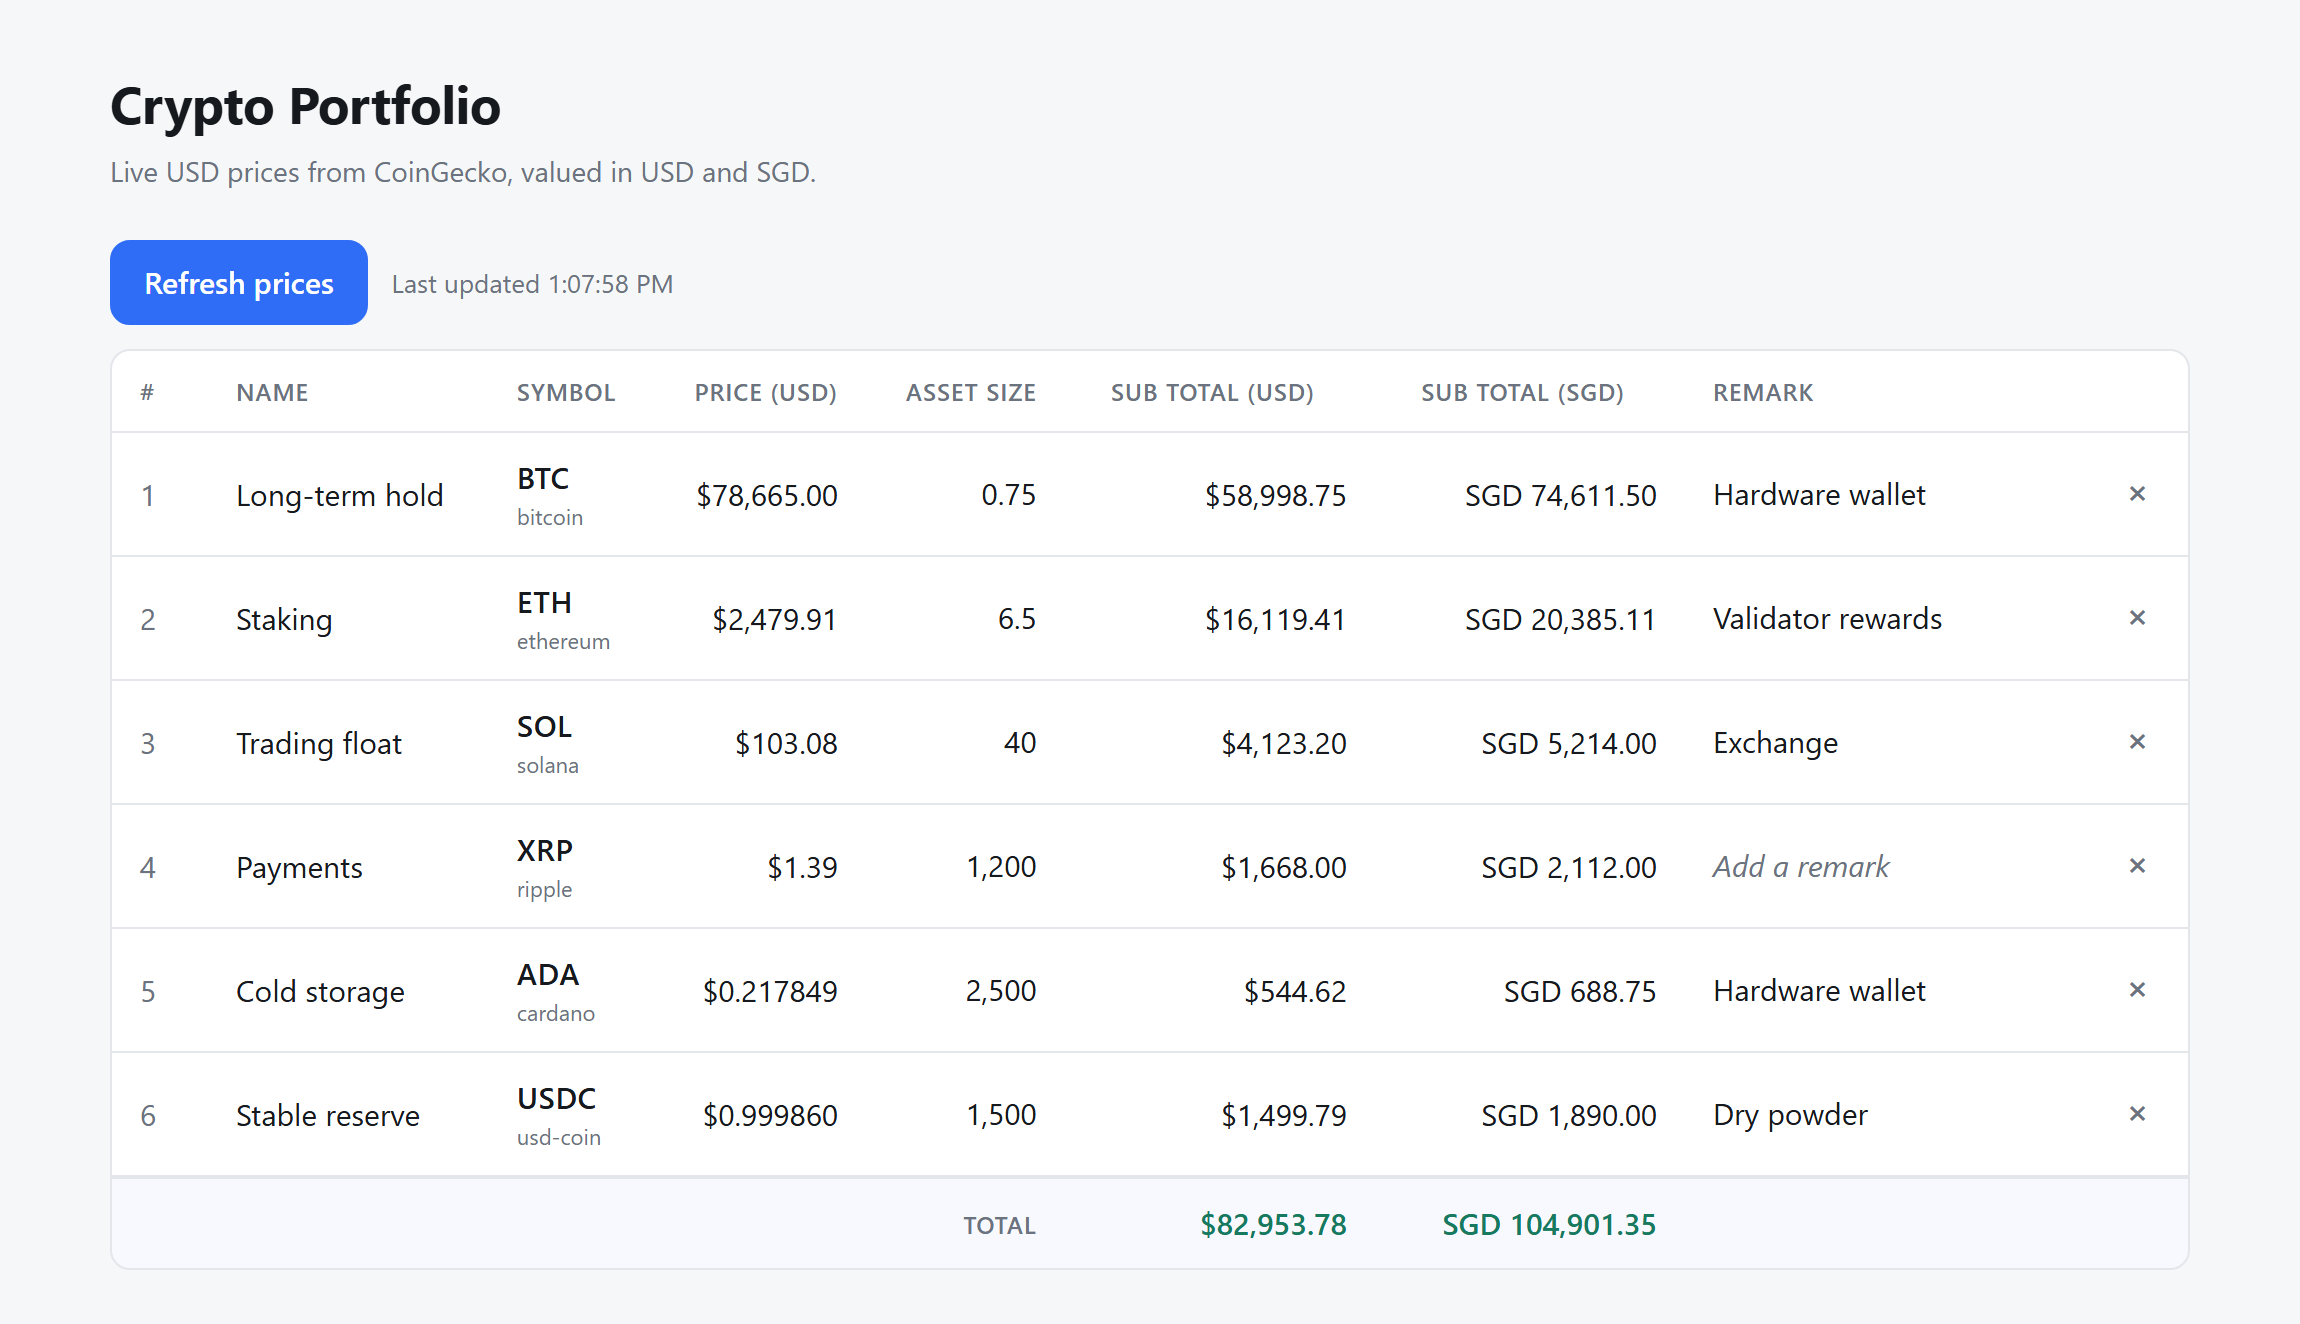
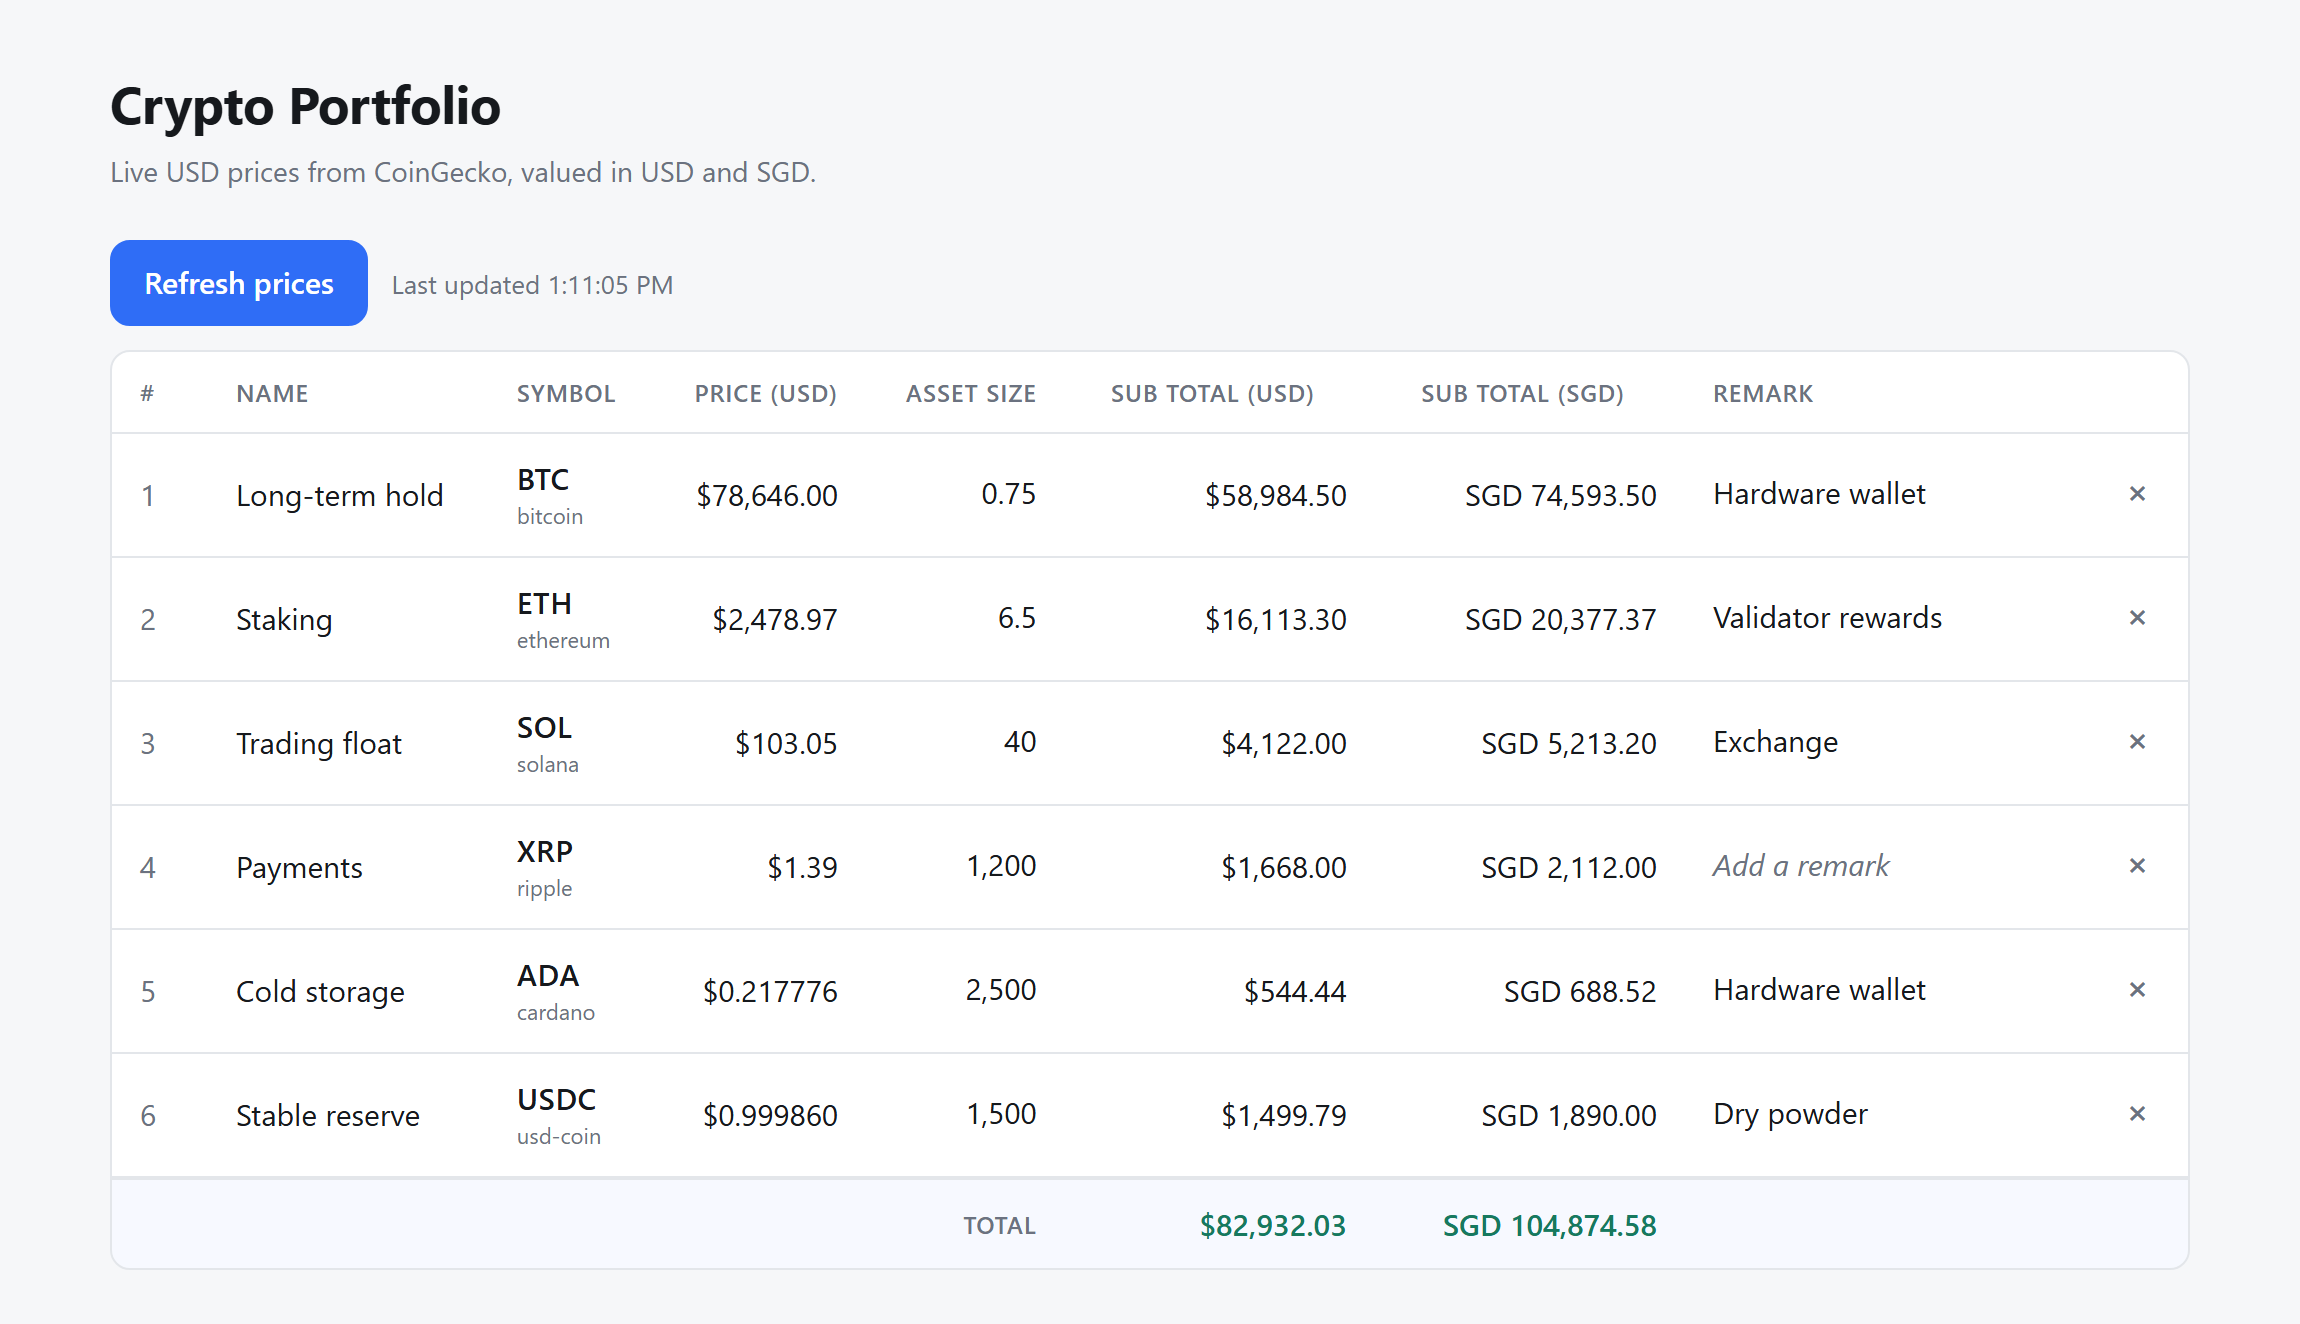
Add a dark-mode screenshot, recapture light to match
Both captured over the DevTools Protocol with prefers-color-scheme
emulated, so the framing and price snapshot are identical between them.
Demo data, not real holdings.

diff --git a/README.md b/README.md
@@ -3,9 +3,11 @@
 A local, single-user dashboard for tracking crypto holdings. Prices come from CoinGecko and every
 position is valued in both USD and SGD. Prices refresh only when you ask them to.
 
-![The dashboard: a table of holdings with USD and SGD sub-totals and a totals row](docs/screenshot.png)
+![The dashboard in light mode: a table of holdings with USD and SGD sub-totals and a totals row](docs/screenshot.png)
 
-<sub>Demo data, not a real portfolio.</sub>
+![The same dashboard in dark mode](docs/screenshot-dark.png)
+
+<sub>Demo data, not a real portfolio. The theme follows your system setting.</sub>
 
 ## Quick start
 
